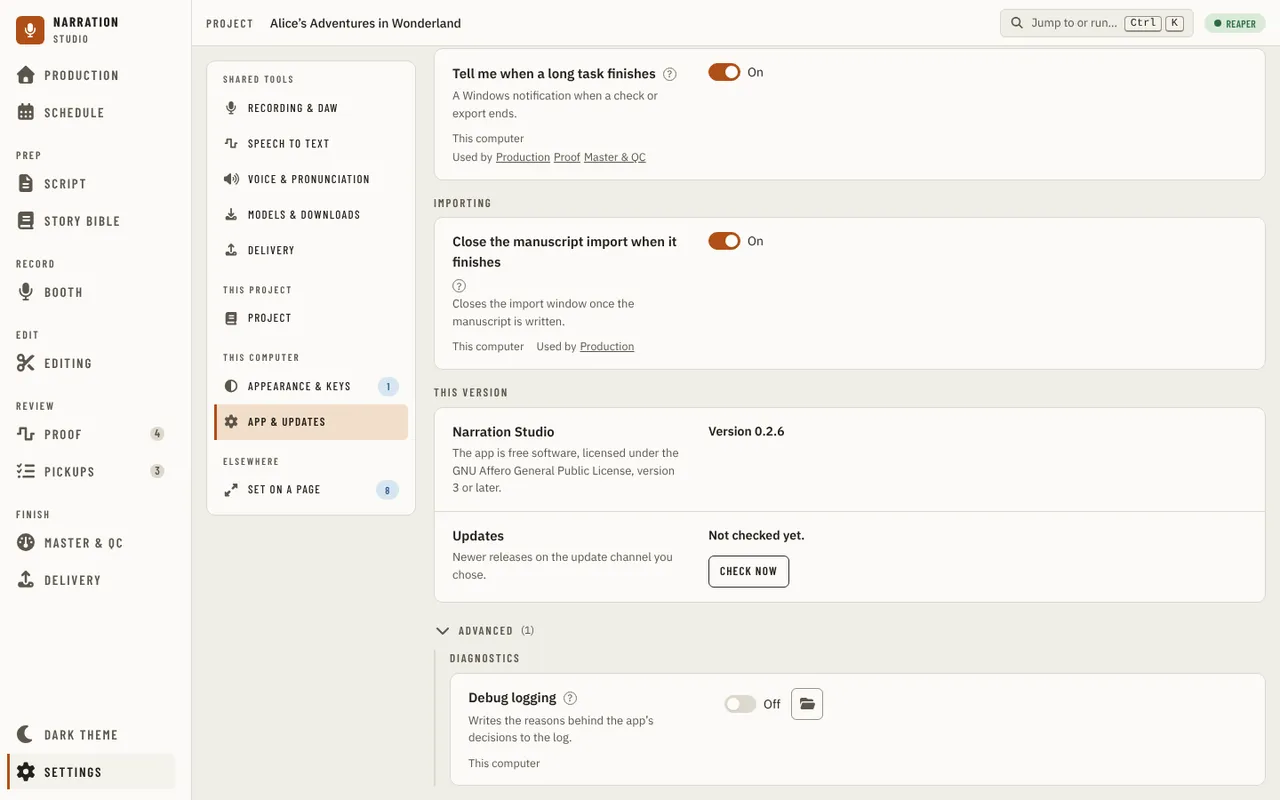
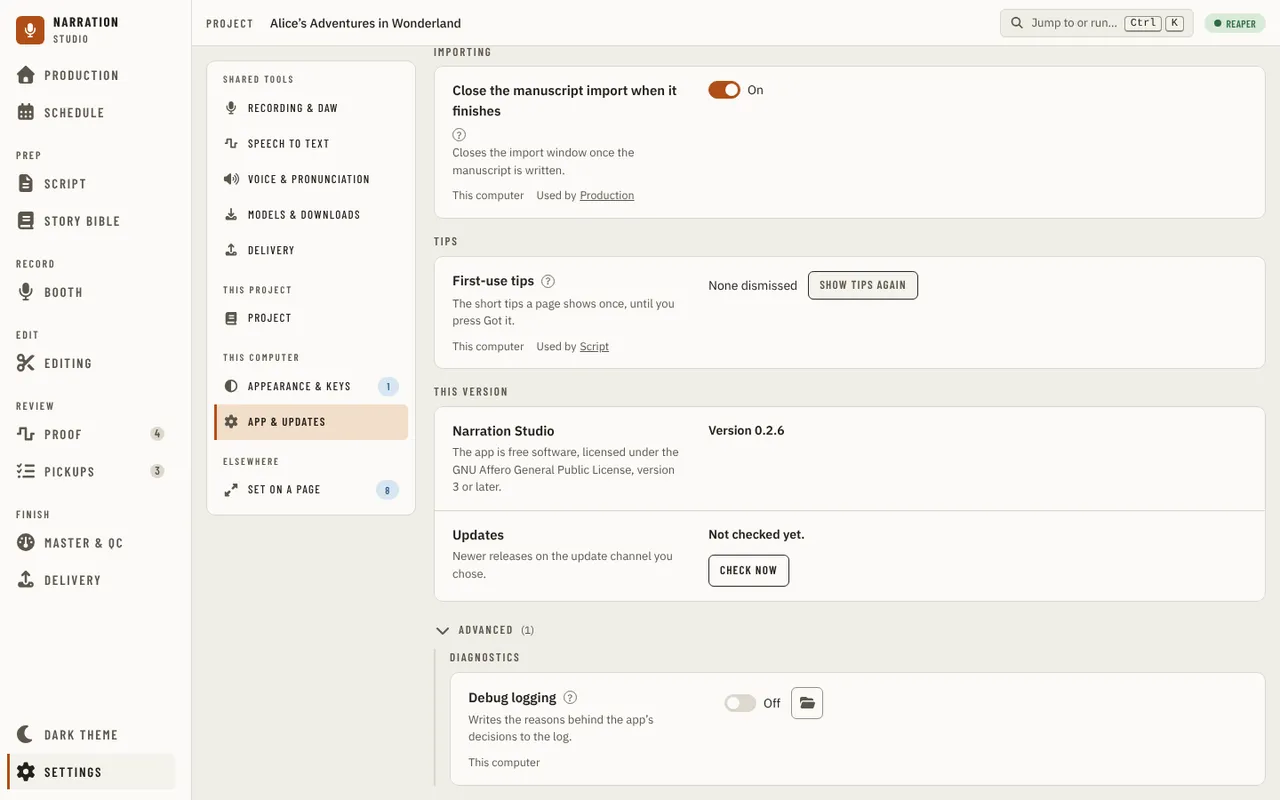
feat(ui): add the first-use tips row to Settings
Claude-Session: https://claude.ai/code/session_01EBTykexrdZFchRHE5VJWsN

diff --git a/src/studio/ui/src/components/settings/controls/TipsBody.test.tsx b/src/studio/ui/src/components/settings/controls/TipsBody.test.tsx
@@ -1,0 +1,74 @@
+// @vitest-environment jsdom
+import { cleanup, render, screen, waitFor } from '@testing-library/react';
+import userEvent from '@testing-library/user-event';
+import { afterEach, describe, expect, it, vi } from 'vitest';
+import { ApiProvider } from '../../../api/ApiContext';
+import { createMockApi } from '../../../api/mockApi';
+import type { NarrationApi } from '../../../types';
+import { FirstUseTip } from '../../../tips/FirstUseTip';
+import { ROWS } from '../registry/rows';
+import { search } from '../registry/search';
+import { LIVE_CHANGED } from '../data/customChanged';
+import { SettingsHostProvider, type SettingsHost } from '../row/SettingsHost';
+import { TipsBody } from './AppearanceBodies';
+
+afterEach(() => {
+  cleanup();
+  vi.restoreAllMocks();
+});
+
+const notify = vi.fn();
+const host = { notify } as unknown as SettingsHost;
+const seen = async (api: NarrationApi) => (await api.settingsForScope('global')).Tips?.find((field) => field.key === 'seen')?.effectiveValue;
+
+const mount = (api: NarrationApi) =>
+  render(
+    <ApiProvider api={api}>
+      <SettingsHostProvider value={host}>
+        <TipsBody />
+        <FirstUseTip id="script.select-text" used={false} />
+      </SettingsHostProvider>
+    </ApiProvider>,
+  );
+
+describe('the first-use tips setting (parity audit)', () => {
+  it('is a row under App & updates, found by the words a narrator uses, and Changed reads the live store', () => {
+    expect(ROWS.find((row) => row.id === 'app.tips')).toMatchObject({ cat: 'app', scope: 'computer' });
+    for (const query of ['show tips again', 'reset tips', 'first use hints']) expect(search(query).some((hit) => hit.row?.id === 'app.tips')).toBe(true);
+    const context = { voiceSetup: {} as never, syncConsent: undefined };
+    expect(LIVE_CHANGED['app.tips']?.({ ...context, tipsSeen: new Set() })).toBe(false);
+    expect(LIVE_CHANGED['app.tips']?.({ ...context, tipsSeen: null })).toBe(false);
+    expect(LIVE_CHANGED['app.tips']?.({ ...context, tipsSeen: new Set(['script.select-text']) })).toBe(true);
+  });
+
+  it('says none are dismissed, and offers nothing to reset', async () => {
+    mount(createMockApi());
+    expect(await screen.findByText('None dismissed')).toBeTruthy();
+    expect((screen.getByRole('button', { name: 'Show tips again' }) as HTMLButtonElement).disabled).toBe(true);
+  });
+
+  it('counts the dismissed tips, and Show tips again clears them in the host and shows a tip that was hidden', async () => {
+    const api = createMockApi();
+    const user = userEvent.setup();
+    mount(api);
+    await user.click(await screen.findByRole('button', { name: 'Got it' }));
+    expect(await screen.findByText('1 dismissed')).toBeTruthy();
+    expect(screen.queryByRole('complementary', { name: 'Tip' })).toBeNull();
+    await user.click(screen.getByRole('button', { name: 'Show tips again' }));
+    expect(await screen.findByText('None dismissed')).toBeTruthy();
+    expect(await screen.findByRole('complementary', { name: 'Tip' })).toBeTruthy();
+    await waitFor(async () => expect(await seen(api)).toBe(''));
+  });
+
+  it('keeps the dismissed tips and says so when the host refuses the reset', async () => {
+    const api = createMockApi();
+    const user = userEvent.setup();
+    mount(api);
+    await user.click(await screen.findByRole('button', { name: 'Got it' }));
+    await screen.findByText('1 dismissed');
+    vi.spyOn(api, 'saveSettings').mockRejectedValueOnce(new Error('disk full'));
+    await user.click(screen.getByRole('button', { name: 'Show tips again' }));
+    await waitFor(() => expect(notify).toHaveBeenCalledWith(expect.stringContaining('disk full'), 'error'));
+    expect(screen.getByText('1 dismissed')).toBeTruthy();
+  });
+});

diff --git a/src/studio/ui/src/components/settings/data/customChanged.ts b/src/studio/ui/src/components/settings/data/customChanged.ts
@@ -7,6 +7,7 @@ import { DELIVERY_PROFILES_CHANGED } from '../DeliveryProfilesPanel';
 import { MW_KEY_CHANGED } from '../controls/mwKeyStatus';
 import { useChapterSync } from '../../../hooks/useChapterSync';
 import type { VoiceTracksState } from '../../../api/contracts/voiceTracks';
+import { useTips } from '../../../tips/useFirstUseTip';
 import { useVoiceSetup } from '../../engine/voiceLayout';
 import { onEngineChanged } from './engineSignal';
 import { BROWSER_CHANGED } from './browserValues';
@@ -51,6 +52,8 @@ export type LiveContext = {
   voiceSetup: VoiceTracksState;
   /** Chapter sync's consent as the host last said it, or undefined before the first answer. */
   syncConsent: string | undefined;
+  /** The first-use tips dismissed, or null before the host has said. */
+  tipsSeen: ReadonlySet<string> | null;
 };
 
 /** Rows whose value the app holds live (`LiveContext`): whether each differs from its default. */
@@ -60,6 +63,8 @@ export const LIVE_CHANGED: Readonly<Record<string, (context: LiveContext) => boo
   // This project: the narrator turned Chapter sync off (on is what the app recommends, and what the first question offers).
   'daw.sync': ({ syncConsent }) => syncConsent === 'off',
   // This project: a character is chosen for the Narrator or assigned to a voice track.
+  // This computer: some first-use tip was dismissed.
+  'app.tips': ({ tipsSeen }) => (tipsSeen?.size ?? 0) > 0,
   'daw.voices': ({ voiceSetup }) => voiceSetup.narratorCharacter !== '' || voiceSetup.tracks.length > 0,
 };
 
@@ -118,6 +123,7 @@ export function useCustomChanged(settings: ReadSettings): ReadonlySet<string> {
   const { setup: voiceSetup } = useVoiceSetup();
   const chapterSync = usePort('chapterSync');
   const syncConsent = useChapterSync(chapterSync)?.consent;
+  const tipsSeen = useTips().seen;
   const version = useBrowserSettingsVersion();
   const [again, setAgain] = useState(0);
   const [changed, setChanged] = useState<ReadonlySet<string>>(new Set());
@@ -156,8 +162,8 @@ export function useCustomChanged(settings: ReadSettings): ReadonlySet<string> {
   }, [api, settings, version, again]);
 
   const live = useMemo(
-    () => new Set(Object.entries(LIVE_CHANGED).flatMap(([id, differs]) => (differs({ voiceSetup, syncConsent }) ? [id] : []))),
-    [voiceSetup, syncConsent],
+    () => new Set(Object.entries(LIVE_CHANGED).flatMap(([id, differs]) => (differs({ voiceSetup, syncConsent, tipsSeen }) ? [id] : []))),
+    [voiceSetup, syncConsent, tipsSeen],
   );
   return useMemo(() => (live.size === 0 ? changed : new Set([...changed, ...live])), [changed, live]);
 }

diff --git a/src/studio/ui/src/components/settings/controls/AppearanceBodies.tsx b/src/studio/ui/src/components/settings/controls/AppearanceBodies.tsx
@@ -10,6 +10,7 @@ import { IconButton } from '../../primitives/IconButton';
 import { RadioGroup } from '../../primitives/RadioGroup';
 import { Select } from '../../primitives/Select';
 import { InsetCard } from '../../primitives/InsetCard';
+import { Button } from '../../primitives/Button';
 import { Checkbox } from '../../primitives/Checkbox';
 import { Slider } from '../../primitives/Slider';
 import { ToggleGroup } from '../../primitives/ToggleGroup';
@@ -23,6 +24,7 @@ import { useOutputDevices } from '../../editing/output/useOutputDevices';
 import { TEXT_SIZE, textSizePx } from '../../booth/reading/BoothText';
 import { changeReaderText, useReaderText } from './readerText';
 import { useSettingsHost } from '../row/SettingsHost';
+import { useTips } from '../../../tips/useFirstUseTip';
 
 const THEME_OPTIONS: { value: ThemePreference; label: string }[] = [
   { value: 'system', label: 'Match my system' },
@@ -301,6 +303,28 @@ export function EntrySortBody() {
       {changed && (
         <IconButton action="undo" label="Reset Story Bible order to Name, A to Z" className="border-transparent" onClick={() => choose(DEFAULT_ENTRY_ORDER)} />
       )}
+    </div>
+  );
+}
+
+/** First-use tips: how many were dismissed with Got it, and Show tips again, which forgets them all (the host keeps them in Tips.seen). */
+export function TipsBody() {
+  const { notify } = useSettingsHost();
+  const { seen, reset } = useTips();
+  const [busy, setBusy] = useState(false);
+  const count = seen?.size ?? 0;
+  const showAgain = async () => {
+    setBusy(true);
+    const problem = await reset();
+    setBusy(false);
+    if (problem) notify(`The tips could not be shown again: ${problem}`, 'error');
+  };
+  return (
+    <div className="flex items-center gap-3">
+      <span className="text-sm">{seen === null ? 'Reading…' : count === 0 ? 'None dismissed' : `${count} dismissed`}</span>
+      <Button variant="secondary" size="sm" disabled={busy || count === 0} onClick={() => void showAgain()}>
+        Show tips again
+      </Button>
     </div>
   );
 }

diff --git a/src/studio/ui/src/tips/tipsStore.ts b/src/studio/ui/src/tips/tipsStore.ts
@@ -16,6 +16,8 @@ export type TipsStore = {
   load(): Promise<void>;
   /** Marks a tip dismissed at once and saves the list. Returns the sentence of a failed save, after putting the tip back; null when it saved. */
   dismiss(id: string): Promise<string | null>;
+  /** Forgets every dismissed tip at once and saves the empty list, so each tip shows again. Same return as `dismiss`. */
+  reset(): Promise<string | null>;
 };
 
 const parse = (value: string): Set<string> => new Set(value.split(/\s+/).filter(Boolean));
@@ -28,6 +30,16 @@ export function createTipsStore(system: SystemPort): TipsStore {
   const set = (next: TipsSnapshot) => {
     seen = next;
     listeners.forEach((listener) => listener());
+  };
+  /** Saves the list as it now stands; on a refusal puts `before` back and returns the host's sentence. */
+  const save = async (before: ReadonlySet<string>): Promise<string | null> => {
+    try {
+      await system.saveSettings(TOOL, 'global', { [KEY]: [...(seen ?? [])].join(' ') });
+      return null;
+    } catch (error) {
+      set(before);
+      return error instanceof Error ? error.message : String(error);
+    }
   };
   return {
     snapshot: () => seen,
@@ -48,13 +60,12 @@ export function createTipsStore(system: SystemPort): TipsStore {
     async dismiss(id) {
       const before = seen ?? new Set<string>();
       set(new Set([...before, id]));
-      try {
-        await system.saveSettings(TOOL, 'global', { [KEY]: [...(seen ?? [])].join(' ') });
-        return null;
-      } catch (error) {
-        set(before);
-        return error instanceof Error ? error.message : String(error);
-      }
+      return save(before);
+    },
+    async reset() {
+      const before = seen ?? new Set<string>();
+      set(new Set());
+      return save(before);
     },
   };
 }

diff --git a/src/studio/ui/src/components/settings/registry/rows.ts b/src/studio/ui/src/components/settings/registry/rows.ts
@@ -871,6 +871,18 @@ export const ROWS: readonly SettingMeta[] = [
     syn: 'import dialog auto close finish complete',
   },
   {
+    id: 'app.tips',
+    cat: 'app',
+    section: 'Tips',
+    label: 'First-use tips',
+    scope: 'computer',
+    def: '',
+    desc: 'The short tips a page shows once, until you press Got it.',
+    more: 'A page shows a short tip the first time you use what it explains, until you press Got it or use the feature. Show tips again forgets which you dismissed, so each shows once more. Kept for this computer, not for a project.',
+    used: ['script'],
+    syn: 'hints reset tips again dismissed got it onboarding first use',
+  },
+  {
     id: 'app.debug',
     cat: 'app',
     section: 'Diagnostics',

diff --git a/src/studio/ui/src/components/settings/registry/settingsParity.test.ts b/src/studio/ui/src/components/settings/registry/settingsParity.test.ts
@@ -138,13 +138,13 @@ const WRITERS: Parity = {
     'components/editing/effects/useFxFavourites.ts': 'ps.fx',
     'components/proof/proofOptions/useProjectOptions.ts': 'ps.preview',
     'components/editing/effects/useFxCap.ts': 'daw.fxCap',
+    'tips/tipsStore.ts': 'app.tips',
   },
   exempt: {
     'components/credits/CreditsSetupDialog.tsx':
       'Writes the narrator name for “all my projects”, the same value as project.narrator’s global scope; the dialog is that row’s prompt.',
-    'tips/tipsStore.ts': 'GAP, App: which first-use tips were dismissed. Row (reset tips), or a reason, comes in the App pull request.',
   },
-  cap: 2,
+  cap: 1,
 };
 
 describe('settings parity (issue 2815)', () => {

diff --git a/src/studio/ui/tests/visual/drivers/settings.ts b/src/studio/ui/tests/visual/drivers/settings.ts
@@ -416,6 +416,11 @@ export const settingsDrivers: Record<string, Driver> = {
     await row.getByRole('combobox', { name: 'Story Bible order' }).selectOption('mentions-desc');
     await row.getByRole('button', { name: 'Reset Story Bible order to Name, A to Z' }).waitFor();
   },
+  'first-use-tips': async (page) => {
+    await openSettings(page, 'App & updates');
+    const row = await showSettingsRow(page, 'app.tips');
+    await row.getByRole('button', { name: 'Show tips again' }).waitFor();
+  },
   'editing-playback': async (page) => {
     // Found by search, so the row is shown whole on its own (the Shortcuts list below it in the category has its own layout debt to settle).
     await openSettings(page);

diff --git a/src/studio/ui/src/tips/useFirstUseTip.ts b/src/studio/ui/src/tips/useFirstUseTip.ts
@@ -30,3 +30,13 @@ export function useFirstUseTip(id: TipId): { visible: boolean; dismiss: () => vo
   }, [store, id]);
   return { visible: seen !== null && !seen.has(id), dismiss };
 }
+
+/** The dismissed tips (`null` until the host has said), read live, with a way to show them all again. The Settings row and its Changed mark use it. */
+export function useTips(): { seen: ReadonlySet<string> | null; reset: () => Promise<string | null> } {
+  const store = useTipsStore();
+  const seen = useSyncExternalStore(store.subscribe, store.snapshot);
+  useEffect(() => {
+    void store.load();
+  }, [store]);
+  return { seen, reset: store.reset };
+}

diff --git a/src/studio/ui/tests/visual/catalog/settings.ts b/src/studio/ui/tests/visual/catalog/settings.ts
@@ -391,6 +391,13 @@ export const settingsStates: StateEntry[] = [
   },
   {
     page: 'settings',
+    state: 'first-use-tips',
+    description: 'Settings, App & updates scrolled to First-use tips under Tips: how many are dismissed and Show tips again, with its row in full view',
+    ...REFLOW,
+    ...KEEPS_DESKTOP_SCROLL,
+  },
+  {
+    page: 'settings',
     state: 'editing-playback',
     description:
       'Settings, Appearance & keys scrolled to Editing playback under Listening: speed, volume, silence and the output device, with the row in full view',

diff --git a/src/studio/ui/src/components/settings/controls/projectControls.tsx b/src/studio/ui/src/components/settings/controls/projectControls.tsx
@@ -2,6 +2,7 @@ import type { ComponentType } from 'react';
 import {
   BoothTextSizeBody,
   EntrySortBody,
+  TipsBody,
   PlaybackBody,
   MotionRowBody,
   ReaderFontBody,
@@ -33,6 +34,7 @@ export const PROJECT_CONTROLS: Record<string, ComponentType> = {
   'look.boothSize': BoothTextSizeBody,
   'look.playback': PlaybackBody,
   'look.entrySort': EntrySortBody,
+  'app.tips': TipsBody,
   'look.waveScrollStep': WaveScrollStepBody,
   'look.zoom': ZoomRowBody,
   'keys.map': ShortcutsRowBody,

diff --git a/docs/guides/using-the-app/settings.md b/docs/guides/using-the-app/settings.md
@@ -317,6 +317,10 @@ replacing the manuscript keeps it; if its lines are gone, the panel says so and 
 
 **Check for updates on startup**, **Update channel**, **Tell me when a long task finishes** (a Windows notification when a long job ends while the app is not in front; on by default) and, under Advanced, **Debug logging**, which writes the reasons behind the app's decisions to the run log: turn it on when asked to send a log. The folder button beside it (**Reveal the log folder in the file manager**) opens the folder the run log is in, so you can attach the log to a bug report. **This version** follows them (see [About and updates](#about-and-updates)).
 
+**First-use tips** (under **Tips**) shows how many of the short tips a page shows once you have dismissed with **Got it**, and **Show tips again** forgets them all, so each shows once more. It is the same list for every project on this computer, and the button is off while none are dismissed.
+
+![Settings - First-use tips under Tips: how many were dismissed, and Show tips again](../../images/ui/settings-first-use-tips.webp)
+
 ![Settings - App & updates, Advanced: Debug logging with the Reveal the log folder in the file manager button beside it](../../images/ui/settings-diagnostics.webp)
 
 ### About and updates
